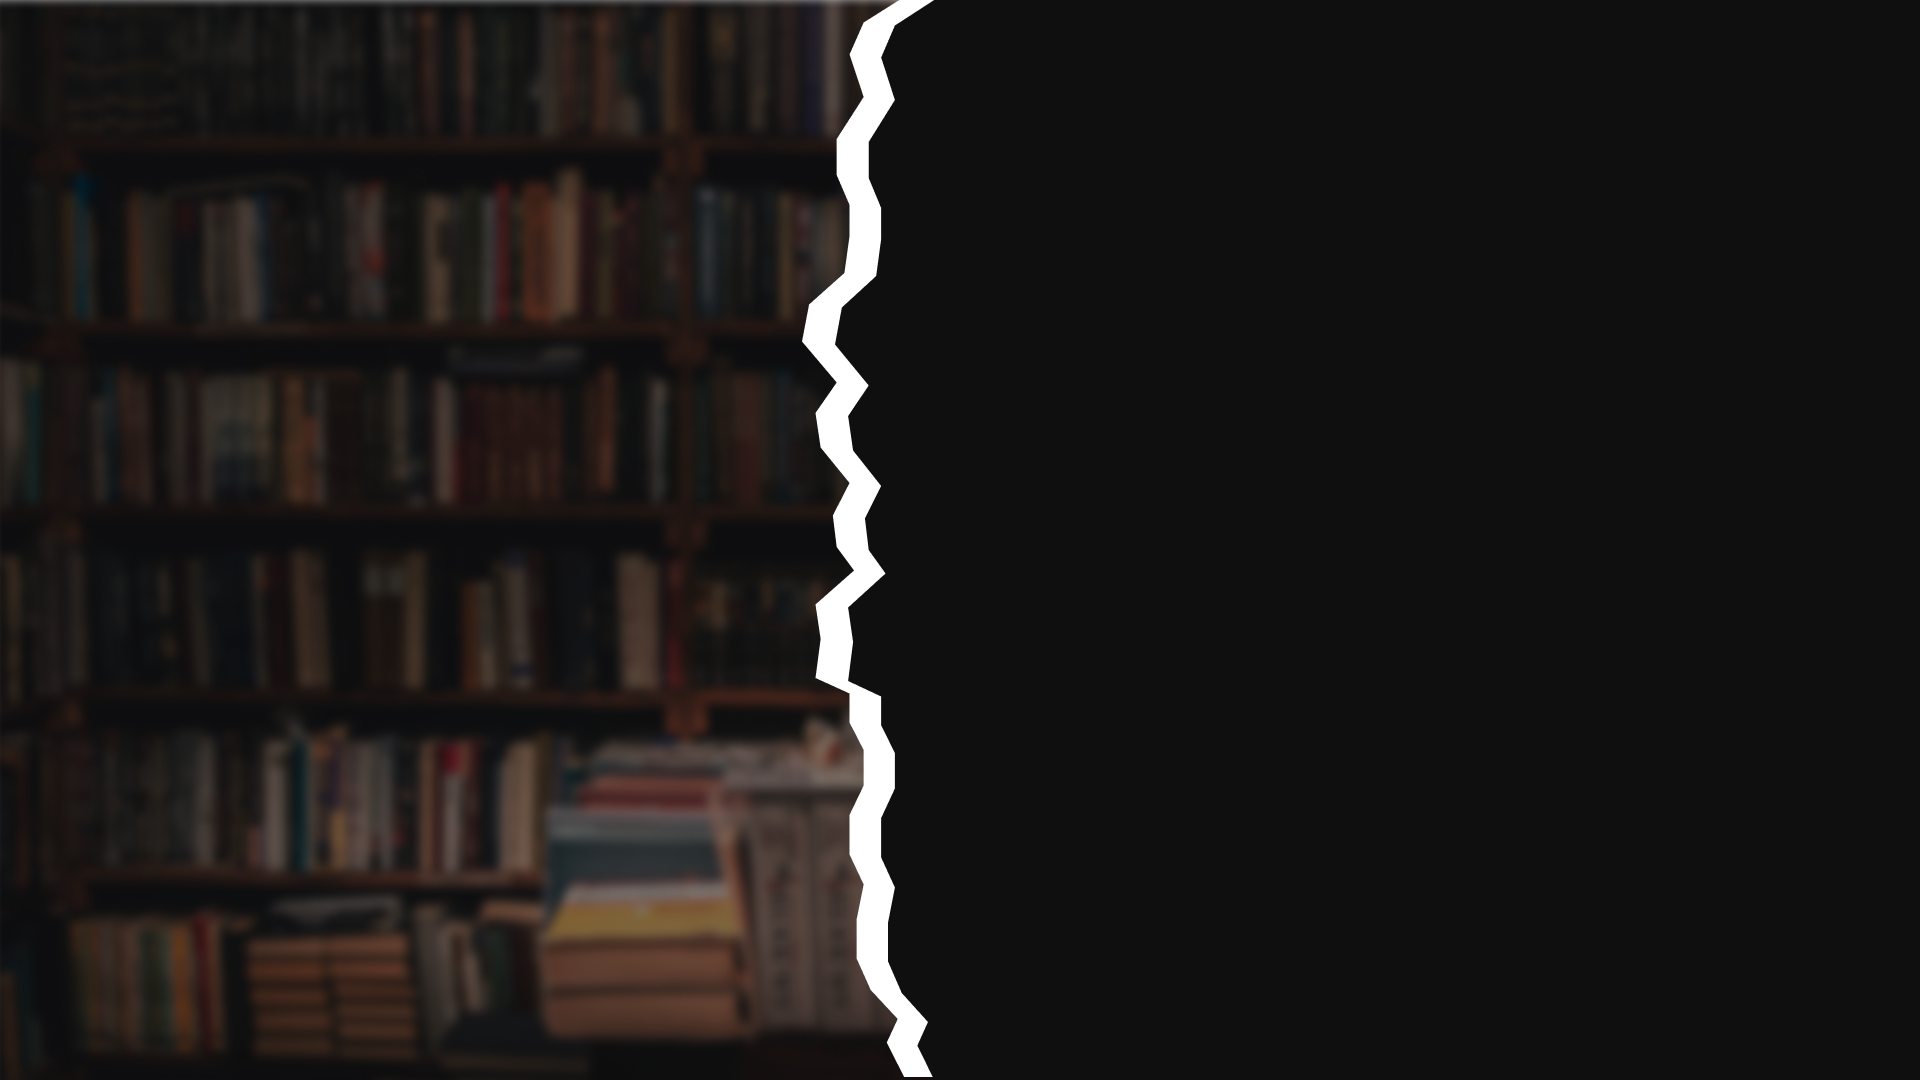
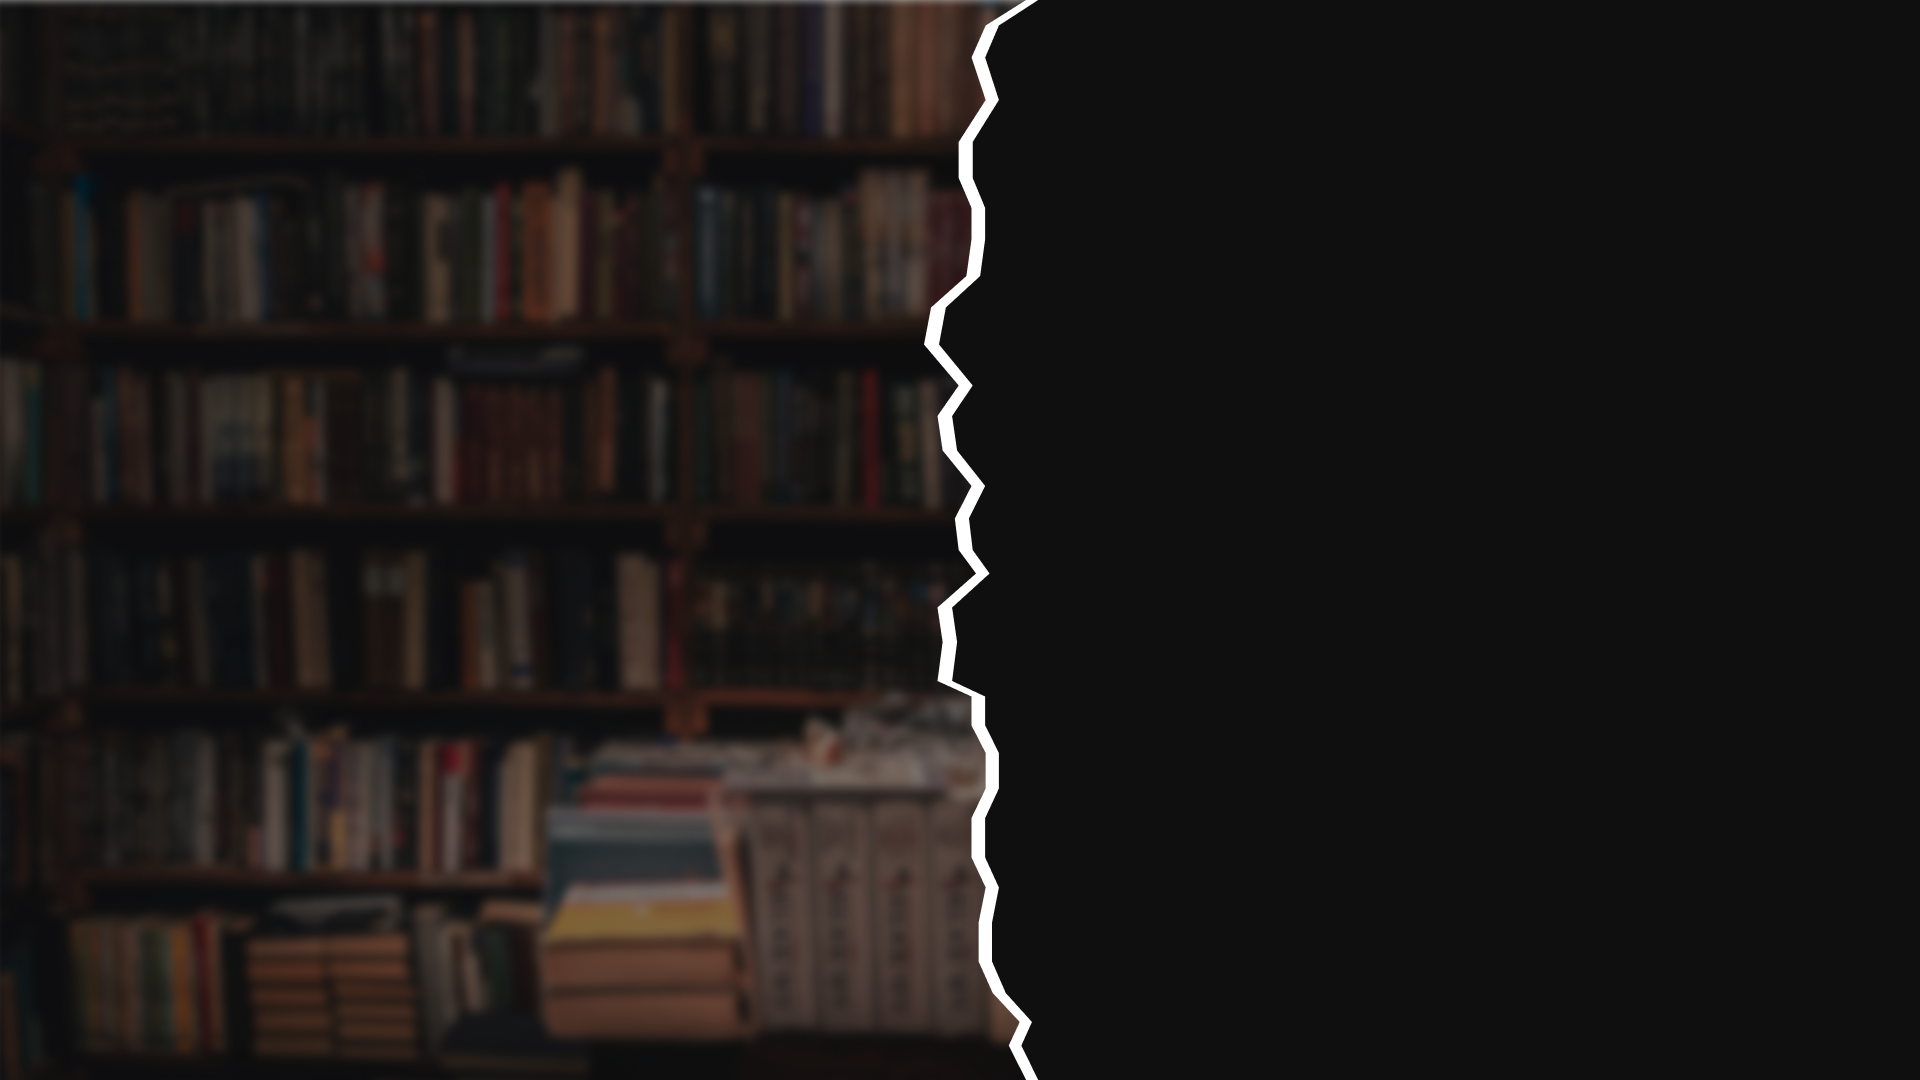
Adição de página de cadastro

Changed region(s): [[0.4062, 0.0, 0.5625, 1.0]]

diff --git a/Desenvolvimento/Site/Site Institucional/auth/css/auth.css b/Desenvolvimento/Site/Site Institucional/auth/css/auth.css
@@ -17,7 +17,6 @@ header{
     font-style: normal;
     font-variation-settings: "wdth" 100;
     position: sticky;
-    z-index: 1000;
     top: 0;
     
     & #logo{
@@ -72,7 +71,7 @@ header{
 main{
     width: 100%;
     height: 640px;
-    background-image: url("../assets/login/Fundo_login.png");
+    background-image: url("../assets/cadastro/Fundo_cadastro.png");
     background-repeat: no-repeat;
     background-size: cover;
     background-position: center;
@@ -80,18 +79,78 @@ main{
     display: flex;
     flex-direction: row;
     align-items: center;
-    justify-content: space-around;
+    justify-content: space-between;
+    font-family: "Poppins", serif;
+    font-weight: 400;
+    font-style: normal;
+    
+    & #titulo{
+        font-size: 40px;
+        margin-bottom: 10px;
+    }
+    & p{
+        font-size: 30px;
+    }
 
+    & button{
+        height: 40px;
+        width: 150px;
+        background-color: #ffffff;
+        color: #101010;
+        border-radius: 20px;
+        border: none;
+        margin-top: 15px;
+        font-family: "Poppins", serif;
+        font-weight: 400;
+        font-style: normal;
+        font-size: 25px;
+        text-align: center;
+    }
+    
     & #mensagem{
         display: flex;
         align-items: center;
         flex-direction: column;
-    }
+        text-align: center;
+        margin-inline: 100px;
+        margin: 60px;
 
+        & #text{
+            margin: 15px;
+        }
+    }
+    
     & #dados{
+        width: 100vw;
+        height: auto;
         display: flex;
         align-items: center;
         flex-direction: column;
-    }
+        text-align: center;
+        font-size: 45px;
 
+        & #inputs{
+            width: 350px;
+            height: 35px;
+            display: flex;
+            justify-content: center;
+            align-items: center;
+            margin: 7px;
+            background-color: #ffffff;
+            border-radius: 5px;
+
+            & img{
+                height: 20px; 
+                margin: 5px;
+            }
+        }
+        
+        & #input{
+            display: flex;
+            width: 300px;
+            height: 35px;
+            border-radius: 5px;
+            border: none;
+        }
+    }
 }

diff --git a/Desenvolvimento/Site/Site Institucional/auth/login.html b/Desenvolvimento/Site/Site Institucional/auth/login.html
@@ -3,9 +3,9 @@
 <head>
     <meta charset="UTF-8">
     <meta name="viewport" content="width=device-width, initial-scale=1.0">
-    <title>Solomon's - Cadastro</title>
+    <title>Solomon's - Login</title>
 
-    <link rel="stylesheet" href="css/auth.css">
+    <link rel="stylesheet" href="css/login.css">
     <link rel="icon" href="assets/Logo.png">
 
     <link rel="preconnect" href="https://fonts.googleapis.com">
@@ -42,35 +42,26 @@
     </header>
 
     <main>
-        <div id="mensagem">
-            <p id="titulo">SEJA BEM-VINDO!</p>
+        <div id="dados">
+            <p id="titulo">ACESSAR CONTA</p>
+
             <div>
-                <img src="assets/cadastro/Separador.png">
+                <input id="email">
             </div>
-            <p id="text">Já tem uma conta?</p>
-            <p id="text">Realize o login para visualizar seu plano de estudos e prosseguir atingindo suas metas!</p>
+
+            <div>
+                <input id="senha">
+            </div>
 
             <button>Login</button>
         </div>
 
-        <div id="dados">
-            <p id="titulo">CRIAR UMA CONTA</p>
-            <div id="inputs">
-                <img src="assets/cadastro/nome.png">
-                <input id="input" placeholder="NOME">
-            </div>
-            <div id="inputs">
-                <img src="assets/cadastro/mail.png">
-                <input id="input" placeholder="E-MAIL">
-            </div>
-            <div id="inputs">
-                <img src="assets/cadastro/senha.png">
-                <input id="input" placeholder="SENHA">
-            </div>
-            <div id="inputs">
-                <img src="assets/cadastro/senha.png">
-                <input id="input" placeholder="REPETIR SENHA">
-            </div>
+        <div id="mensagem">
+            <p>NOVO POR AQUI?</p>
+            
+            <img src="">
+
+            <p id="text">Realize o cadastro para poder criar um plano de estudo e ter acesso a um ambiente de produtividade intelectual!</p>
 
             <button>Cadastrar</button>
         </div>

diff --git a/Desenvolvimento/Site/Site Institucional/auth/css/login.css b/Desenvolvimento/Site/Site Institucional/auth/css/login.css
@@ -72,7 +72,7 @@ header{
 main{
     width: 100%;
     height: 640px;
-    background-image: url("../assets/cadastro/Fundo_cadastro.png");
+    background-image: url("../assets/login/Fundo_login.png");
     background-repeat: no-repeat;
     background-size: cover;
     background-position: center;
@@ -80,18 +80,53 @@ main{
     display: flex;
     flex-direction: row;
     align-items: center;
-    justify-content: space-around;
+    justify-content: space-between;
+    font-family: "Poppins", serif;
+    font-weight: 400;
+    font-style: normal;
+
+    & #titulo{
+        font-size: 40px;
+        margin-bottom: 10px;
+    }
+    & p{
+        font-size: 30px;
+    }
+
+    & button{
+        height: 40px;
+        width: 150px;
+        background-color: #ffffff;
+        color: #101010;
+        border-radius: 20px;
+        border: none;
+        margin-top: 15px;
+        font-family: "Poppins", serif;
+        font-weight: 400;
+        font-style: normal;
+        font-size: 25px;
+        text-align: center;
+    }
 
     & #mensagem{
         display: flex;
         align-items: center;
         flex-direction: column;
+        text-align: center;
+
+        & #text{
+            margin: 15px;
+        }
     }
 
     & #dados{
+        width: 100vw;
+        height: auto;
         display: flex;
         align-items: center;
         flex-direction: column;
+        text-align: center;
+        font-size: 45px;
     }
 
 }
